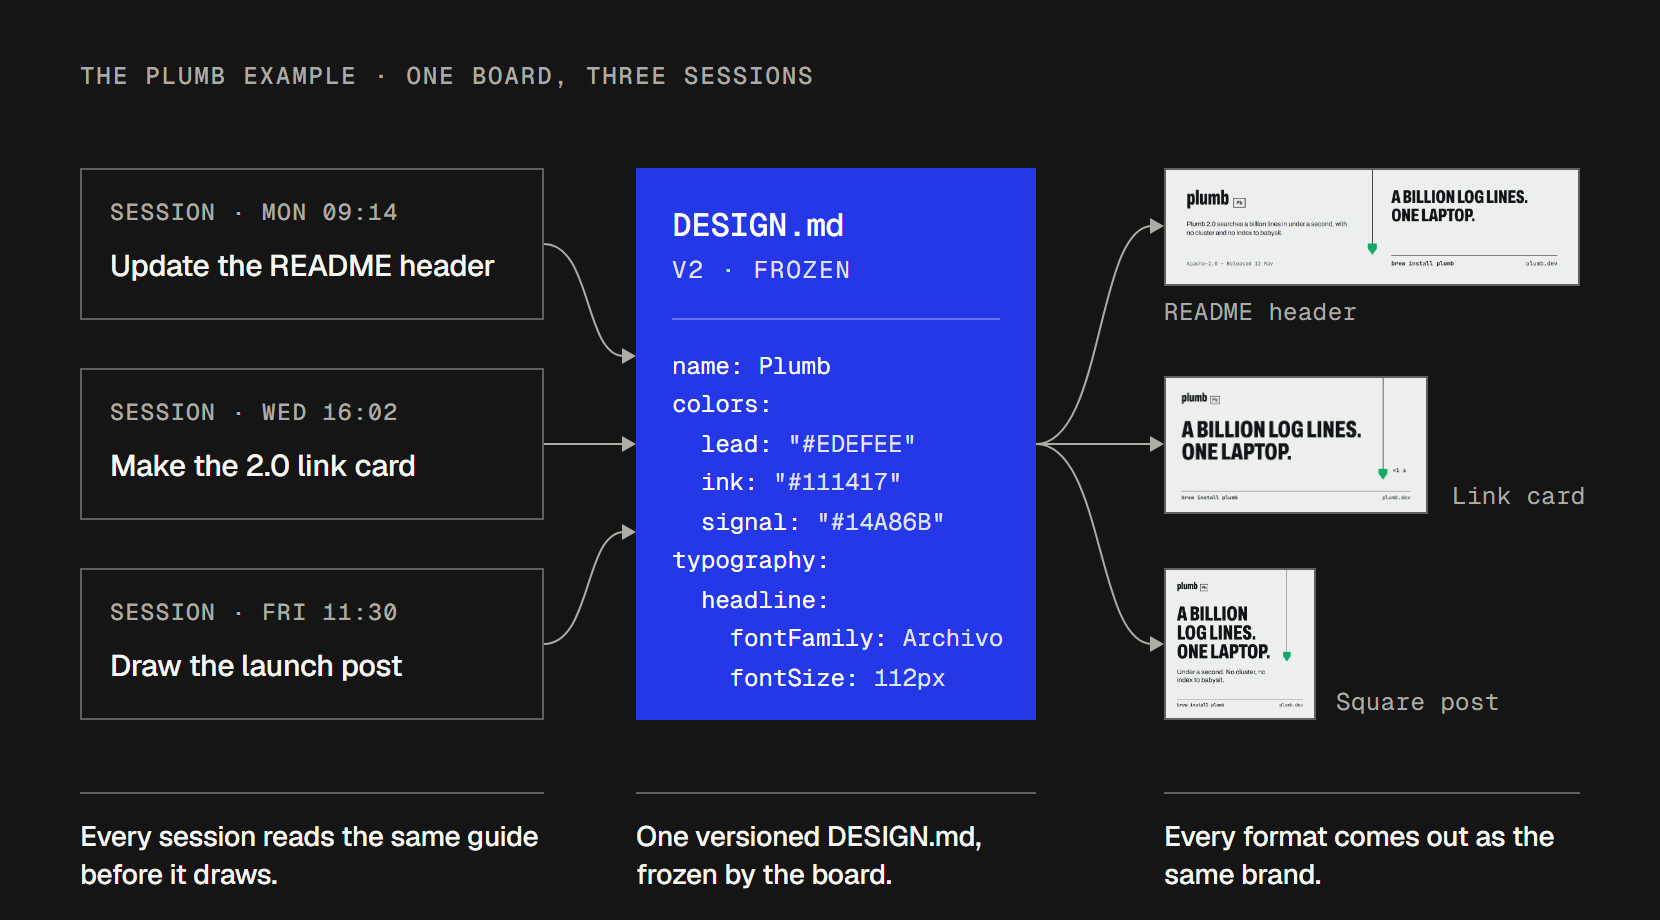
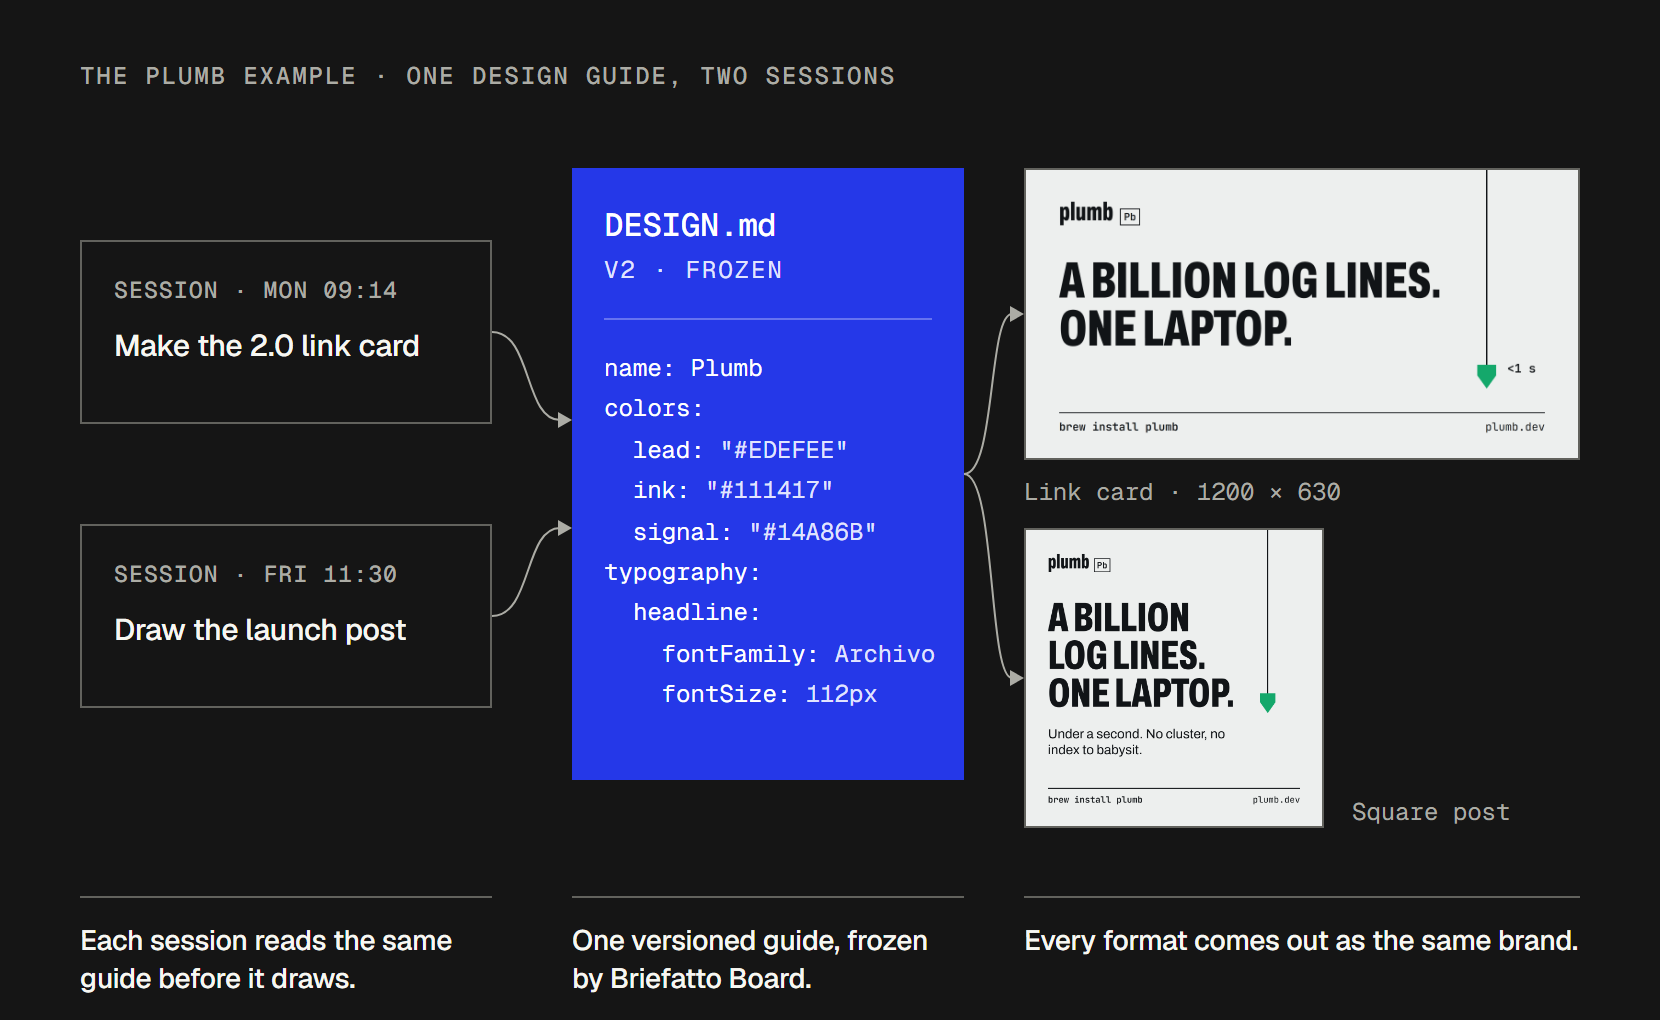
Update README

diff --git a/README.md b/README.md
@@ -5,10 +5,11 @@
   </picture>
 </p>
 
-<p align="center"><strong><a href="https://github.com/Briefatto/briefatto-board">Briefatto Board</a> gives coding agents one versioned design guide to read before visual work.</strong></p>
+<p align="center"><strong>Briefatto Board gives coding agents one versioned design guide to read before visual work.</strong></p>
 
 <p align="center">
   <a href="https://www.npmjs.com/package/briefatto-board"><img src="https://img.shields.io/npm/v/briefatto-board?style=flat-square&color=2538E8&label=npm" alt="npm version"></a>
+  <a href="https://github.com/Briefatto/briefatto-board/actions/workflows/ci.yml"><img src="https://github.com/Briefatto/briefatto-board/actions/workflows/ci.yml/badge.svg?branch=main" alt="CI"></a>
   <a href="LICENSE"><img src="https://img.shields.io/badge/licence-Apache--2.0-151515?style=flat-square" alt="Apache-2.0 licence"></a>
   <a href="#works-with-any-coding-agent"><img src="https://img.shields.io/badge/works%20with-any%20coding%20agent-62625D?style=flat-square" alt="Works with any coding agent"></a>
 </p>
@@ -20,30 +21,28 @@
   </picture>
 </p>
 
-Your brand lives in one file, `DESIGN.md`, and the board keeps it versioned. Every agent session reads it before drawing anything, every rendered piece is checked against a floor of basic craft, and after a brand change the board tells you which pieces are out of date.
+Your brand lives in one design guide, `DESIGN.md`, and Briefatto Board keeps it versioned. Every agent session reads the guide before drawing anything, every rendered piece is checked against a quality floor, and after a brand change you are told which pieces are out of date.
 
-## Start in 30 seconds
+## Start
 
 ```sh
 npx briefatto-board install
 ```
 
-This adds the board to your project and installs the skill your agent reads. Below, `board` stands for `npx briefatto-board`.
+This adds Briefatto Board to your project and installs the skill your agent reads. Below, `board` stands for `npx briefatto-board`.
 
-**You already have a site → adopt.** The board captures your pages, your agent writes `DESIGN.md` from what it sees, and you freeze it as v1.
+**You already have a site → adopt.** Briefatto Board captures your pages, your agent writes the design guide (`DESIGN.md`) from what it sees, and you freeze it as v1.
 
 ```sh
 npx briefatto-board adopt .
-# Write DESIGN.md from the captured pages before freezing.
 npx briefatto-board freeze .
 ```
 
-**Starting a brand → references → directions → pick → freeze.** Put the brief in `brief.md` and ask your agent to follow the skill. It prepares the reference manifest, shows you a sheet of references to point at, draws three directions from your picks, revises the one you choose and freezes it after your yes.
+**Starting a brand → references → directions → pick → freeze.** Put the brief in `brief.md` and ask your agent to follow the skill. It shows you a sheet of references to point at, draws three directions from your picks, revises the one you choose and writes `DESIGN.md` and freezes it after your yes. Use the chosen direction ID in place of `lead`.
 
 ```sh
 npx briefatto-board refs .
 npx briefatto-board directions .
-# Write DESIGN.md for the chosen direction and use its ID (lead in Plumb).
 npx briefatto-board freeze . lead
 ```
 
@@ -58,15 +57,24 @@ Node.js 24 or later. The first render prints the Playwright command to install C
   </picture>
 </p>
 
-- **Versioned brand state.** `board freeze` validates the declared colours, font families and type sizes in `DESIGN.md` against fresh renders of the selected pages or samples. It stamps a version and archives the guide, and adds a standing instruction to `AGENTS.md` and `CLAUDE.md` so every session reads `DESIGN.md` first.
-- **The no-AI-smell floor.** `board check` renders each piece and fails it for text that is clipped, off the canvas, over other text, too small where it is seen, in a font that never loaded, or below WCAG contrast. It also uses the [Impeccable](https://github.com/pbakaus/impeccable) detector to catch common anti-patterns.
+- **Versioned brand state.** `board freeze` validates `DESIGN.md` against a fresh render: every colour, font and size it names must appear in the chosen samples. It stamps a version and archives the guide, and adds a standing instruction to `AGENTS.md` and `CLAUDE.md` so every session reads `DESIGN.md` first.
+- **A quality floor for every piece.** `board check` renders each piece and fails it for text that is clipped, off the canvas, over other text, too small where it is seen, in a font that never loaded, or below WCAG contrast, and for the anti-patterns found by the [Impeccable](https://github.com/pbakaus/impeccable) detector.
 - **Truthful status.** Each piece declares the version it was made under. After a brand change, `board status` lists which pieces are current and which are stale.
+
+This is what the CLI printed on the Plumb example, after a brand change: a stale link card, a redraw that fails the floor, the fix, and the status that follows.
+
+<p align="center">
+  <picture>
+    <source media="(prefers-color-scheme: dark)" srcset=".github/assets/capture-dark.png">
+    <img src=".github/assets/capture-light.png" width="830" alt="Real terminal output from the Plumb example. board status lists og.html and post.html as stale under v2. board check fails the redrawn og.html because the label is 16px, below the 22px minimum where it is seen. After the label is raised to 26px, board check passes, and status lists only post.html as stale.">
+  </picture>
+</p>
 
 ### Works with any coding agent
 
-The board is a command-line tool and a skill file. It works with any coding agent that reads `AGENTS.md` and runs shell commands.
+Briefatto Board is a command-line tool and a skill file. It works with any coding agent that reads `AGENTS.md` and runs shell commands.
 
-## Made with the board
+## Made with Briefatto Board
 
 <p align="center">
   <picture>
@@ -75,11 +83,11 @@ The board is a command-line tool and a skill file. It works with any coding agen
   </picture>
 </p>
 
-Plumb is an invented open-source log search tool from [`examples/plumb`](examples/plumb/brief.md). The board took it from its brief to a frozen guide, and every piece passed `board check`.
+Plumb is an invented open-source log search tool from [`examples/plumb`](examples/plumb/brief.md). Briefatto Board took it from its brief to a frozen design guide, and every piece passed `board check`.
 
 ### Examples
 
-Try the board on the other examples in [`examples/`](examples): [`bakery`](examples/bakery/brief.md), a brief with CC0 photographs, and [`current-site`](examples/current-site/README.md), a small site to adopt.
+Try it on the other examples in [`examples/`](examples): [`bakery`](examples/bakery/brief.md), a brief with CC0 photographs, and [`current-site`](examples/current-site/README.md), a small site to adopt.
 
 ## Change the brand
 
@@ -90,7 +98,7 @@ Try the board on the other examples in [`examples/`](examples): [`bakery`](examp
   </picture>
 </p>
 
-Record the client's words, update `DESIGN.md`, and freeze again with a note. `board diff` shows what changed, and `board status` shows what still needs revisiting. Nothing is redrawn behind your back. Here is the Plumb example.
+Record the client's words, update `DESIGN.md`, and freeze again with a note. `board diff` shows what changed, and `board status` shows what still needs revisiting. Nothing is redrawn behind your back.
 
 ```sh
 npx briefatto-board freeze . lead --note "Signal weight from orange to green"
@@ -101,12 +109,12 @@ npx briefatto-board status
 
 | Command | What it does |
 | :--- | :--- |
-| `board install` | Adds the board and its skill to a project |
+| `board install` | Adds Briefatto Board and its skill to a project |
 | `board adopt .` | Captures an existing site's pages and computed styles |
-| `board refs .` | Builds a sheet from the captured references |
+| `board refs .` | Builds a reference sheet from entries in `refs/manifest.json` |
 | `board directions .` | Renders each direction's samples as a sheet |
 | `board freeze . [direction]` | Validates `DESIGN.md` and stamps the next version |
-| `board check . <piece.html>` | Renders a piece and runs the no-AI-smell floor |
+| `board check . <piece.html>` | Renders a piece and checks it against the quality floor |
 | `board status` | Lists pieces as current, stale or unrecorded |
 | `board log` · `board diff v1 v2` | Shows version history and what changed |
 
